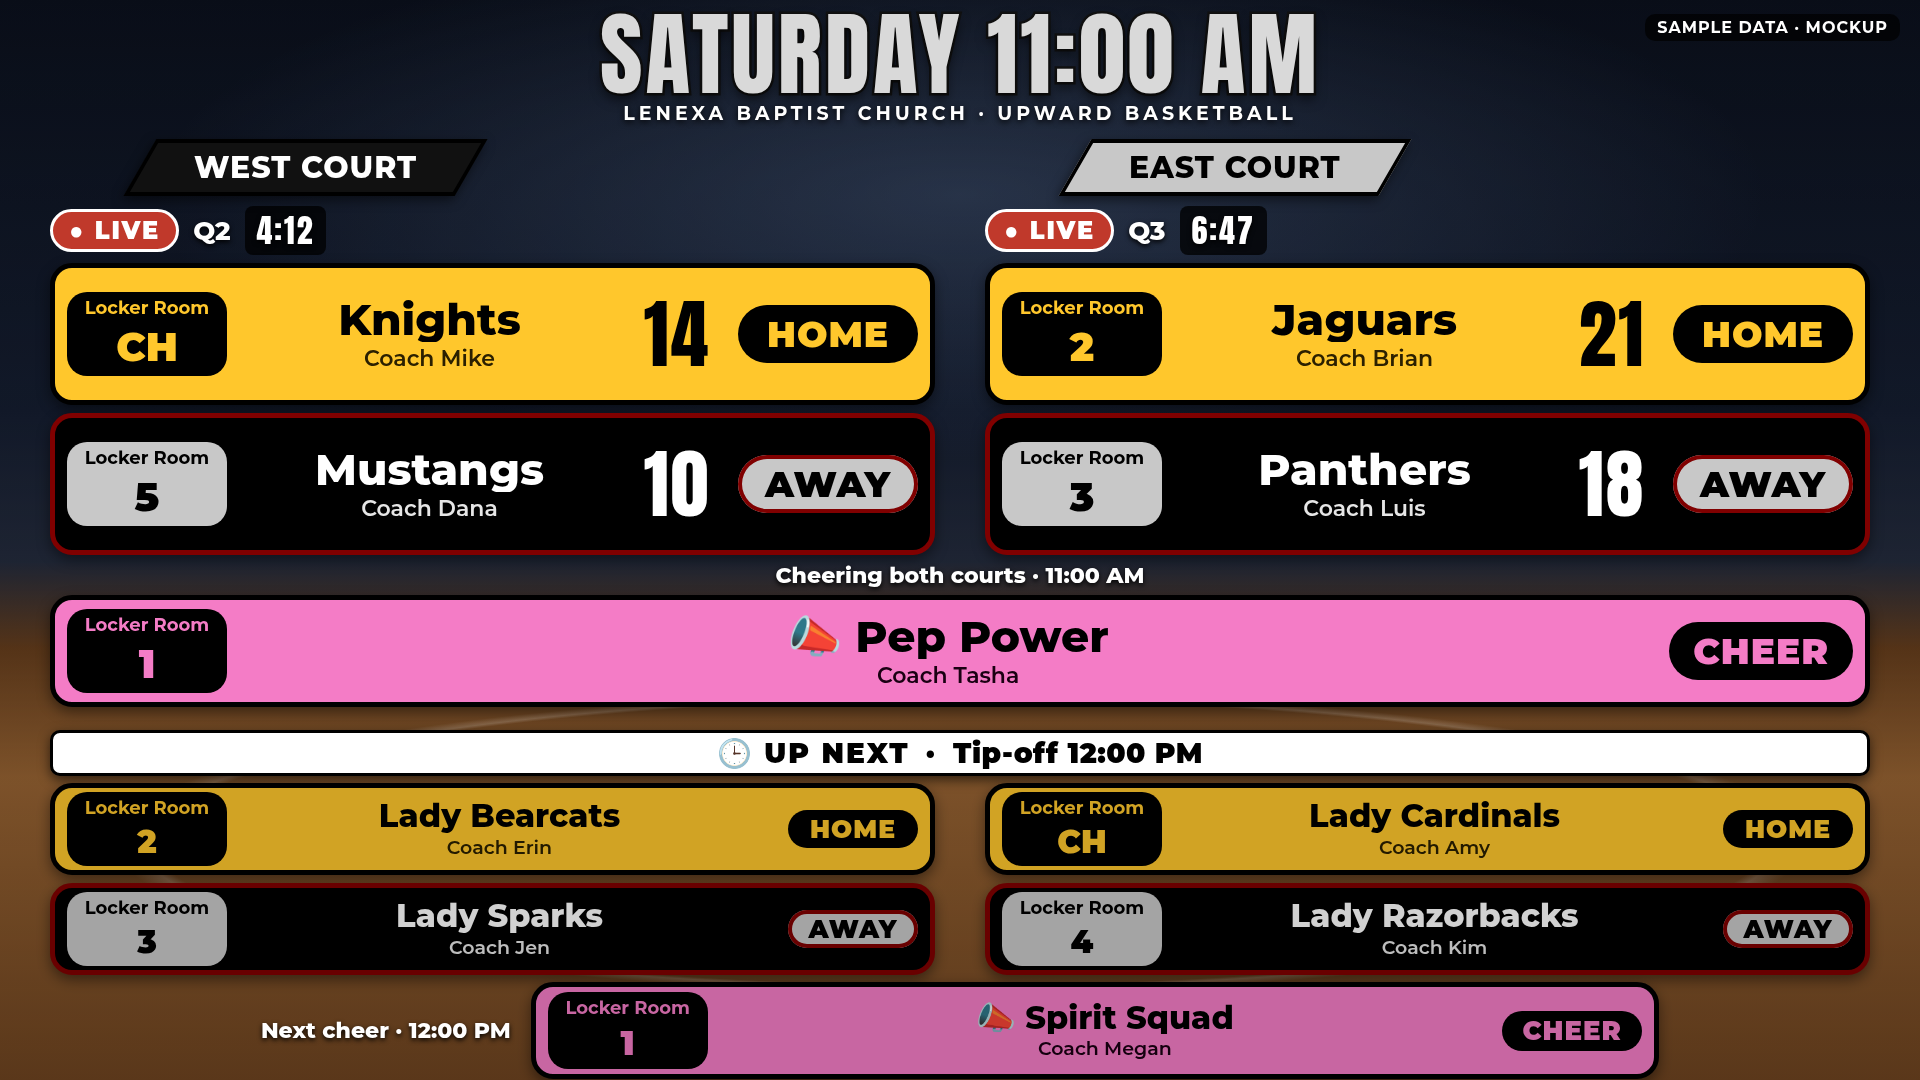
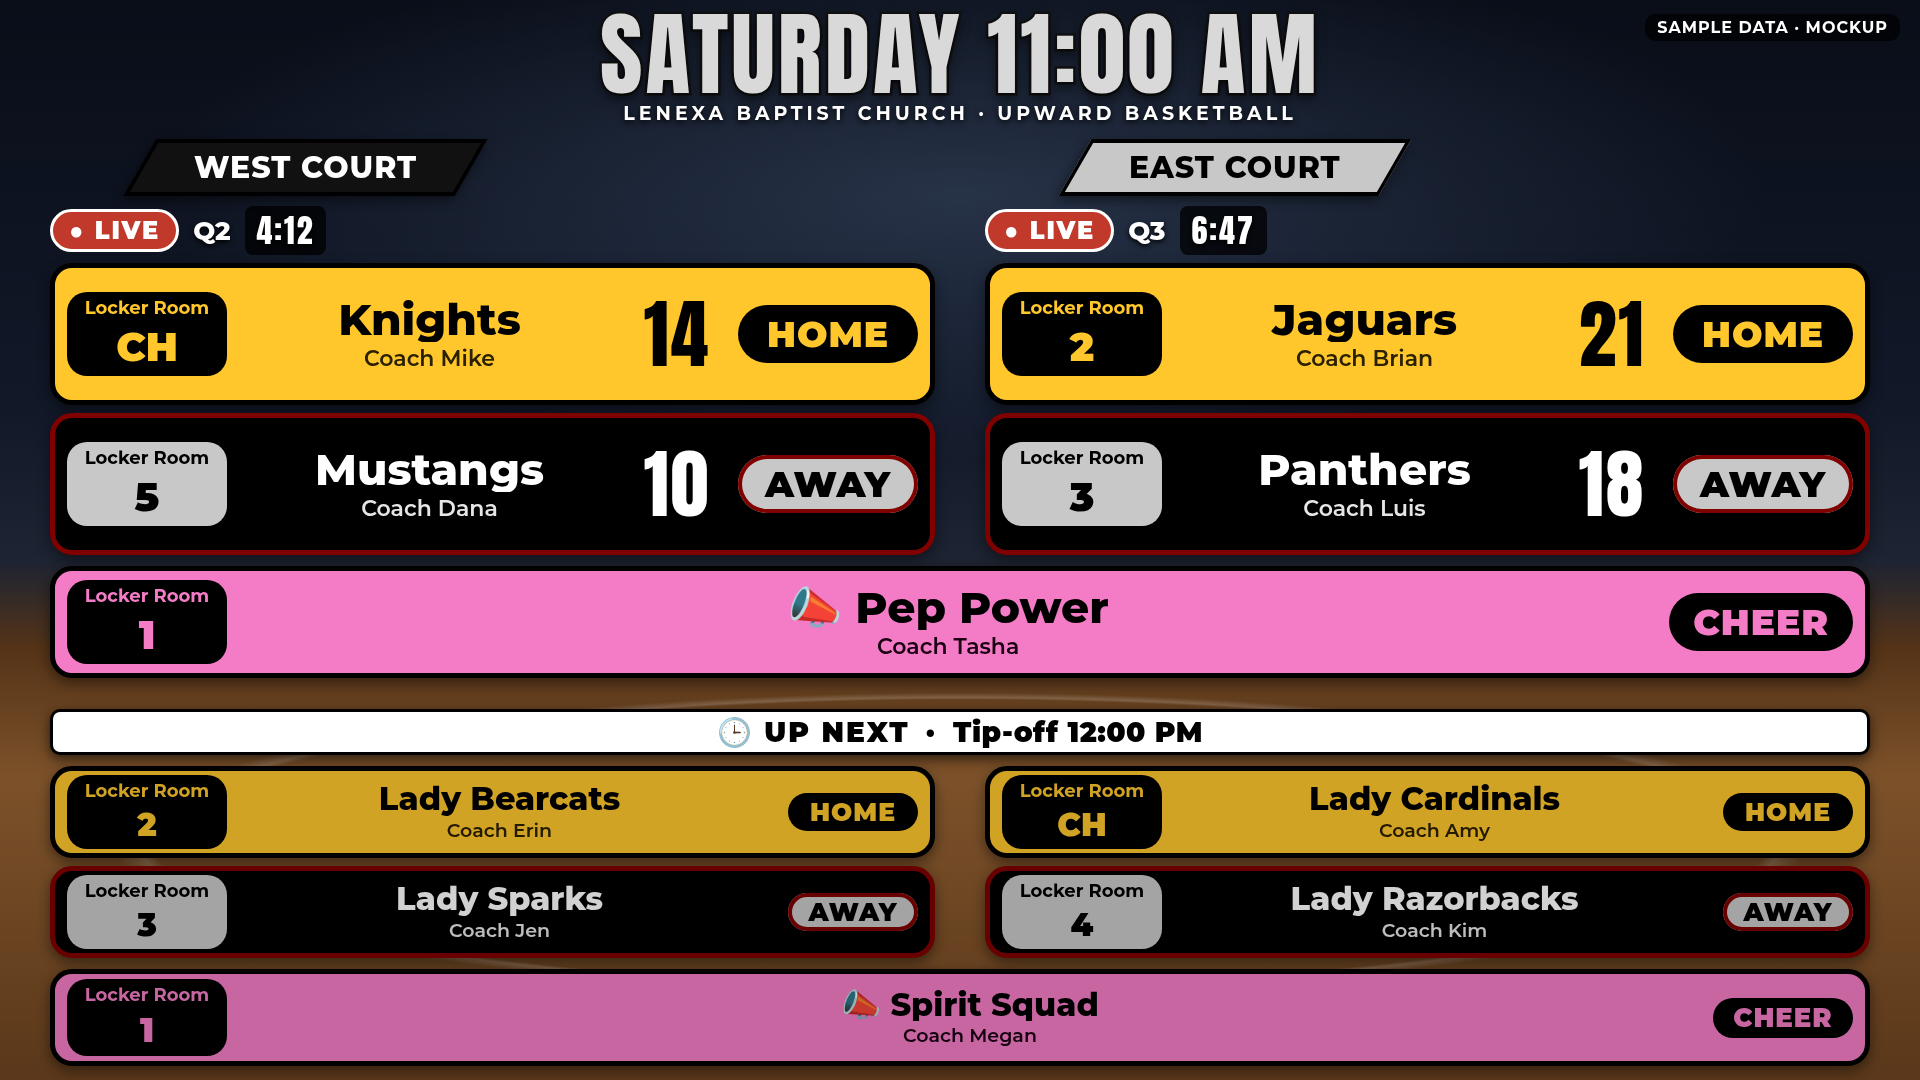
lobby-v2: drop cheer captions; next cheer full-width dimmed under next games

Changed region(s): [[0.0, 0.5194, 1.0, 1.0]]

diff --git a/deliverables/mockups/lobby-v2/saturday-split.html b/deliverables/mockups/lobby-v2/saturday-split.html
@@ -10,7 +10,7 @@
       <div class="who"><div class="name" data-bind="name">Jaguars</div><div class="coach" data-bind="coach">Coach Brian</div></div><span class="score" data-bind="home-score">21</span><span class="side">HOME</span></div><div class="row away" data-row="away"><div class="locker" data-bind="locker"><small>Locker Room</small><b>3</b></div>
       <div class="who"><div class="name" data-bind="name">Panthers</div><div class="coach" data-bind="coach">Coach Luis</div></div><span class="score" data-bind="away-score">18</span><span class="side">AWAY</span></div></section></div>
 </div>
-<section class="cheer-band now" data-court="both" data-slot="now"><div class="status"><span>Cheering both courts · 11:00 AM</span></div>
+<section class="cheer-band now" data-court="both" data-slot="now">
 <div class="row cheer span" data-row="cheer"><div class="locker" data-bind="locker"><small>Locker Room</small><b>1</b></div>
       <div class="who"><div class="name" data-bind="name">Pep Power</div><div class="coach" data-bind="coach">Coach Tasha</div></div><span class="side">CHEER</span></div></section>
 
@@ -23,7 +23,7 @@
       <div class="who"><div class="name" data-bind="name">Lady Cardinals</div><div class="coach" data-bind="coach">Coach Amy</div></div><span></span><span class="side">HOME</span></div><div class="row away" data-row="away"><div class="locker" data-bind="locker"><small>Locker Room</small><b>4</b></div>
       <div class="who"><div class="name" data-bind="name">Lady Razorbacks</div><div class="coach" data-bind="coach">Coach Kim</div></div><span></span><span class="side">AWAY</span></div></section></div>
 </div>
-<section class="cheer-band next" data-court="both" data-slot="next"><div class="status"><span>Next cheer · 12:00 PM</span></div>
+<section class="cheer-band next" data-court="both" data-slot="next">
 <div class="row cheer span" data-row="cheer"><div class="locker" data-bind="locker"><small>Locker Room</small><b>1</b></div>
       <div class="who"><div class="name" data-bind="name">Spirit Squad</div><div class="coach" data-bind="coach">Coach Megan</div></div><span class="side">CHEER</span></div></section>
 </main><div class="sample">SAMPLE DATA · MOCKUP</div></body></html>

diff --git a/deliverables/mockups/lobby-v2/lobby.css b/deliverables/mockups/lobby-v2/lobby.css
@@ -123,3 +123,9 @@ main.split .band.next .side { font-size: 2.5rem; min-width: 13rem; padding: .4re
 .full .pair { grid-template-columns: 1fr; gap: 1.6rem; }
 .full .pair .next-bar { margin-top: 1.4rem; }
 .full .game.next { width: 82%; margin: 0 auto; }
+
+/* Aaron 3:01 PM: no cheer captions; cheer rows just sit under the courts, next one full width + dimmed */
+.cheer-band.next { flex-direction: column; }
+.cheer-band.next .row.cheer { width: 100%; }
+main.split { gap: 1.1rem; }
+main.split .next-bar { margin-top: 2rem; }

diff --git a/deliverables/mockups/lobby-v2/data-needs.md b/deliverables/mockups/lobby-v2/data-needs.md
@@ -54,8 +54,8 @@ column kept so names stay centered). Coaches only in the lobby payload; never in
 - Status never color-only: "● LIVE" + red tag + score/clock; "🕒 UP NEXT" + "Tip-off 12:00 PM".
 - Fonts: header Anton (grey fill, black outline, like the slides' condensed caps); rows Montserrat 800/900
   (closest available to the slides' rounded sans). Court tabs are the slides' skewed parallelograms (West black, East grey).
-- Cheer sits between the live and UP NEXT bands, spanning both courts ("Cheering both courts · 11:00 AM"); the next slot's
-  squad is a smaller spanning row at the bottom ("Next cheer · 12:00 PM"). West/East live and next rows stay aligned.
+- Cheer sits directly under the live courts, spanning both (no caption); the next slot's squad is a full-width, dimmed
+  row under the next games (no caption). No squad that hour → no row. West/East live and next rows stay aligned.
 
 ## Open questions for Aaron
 1. Multiple coaches per team (head + assistant)? With first names only, "Coach Mike & Dana" fits on the line.
